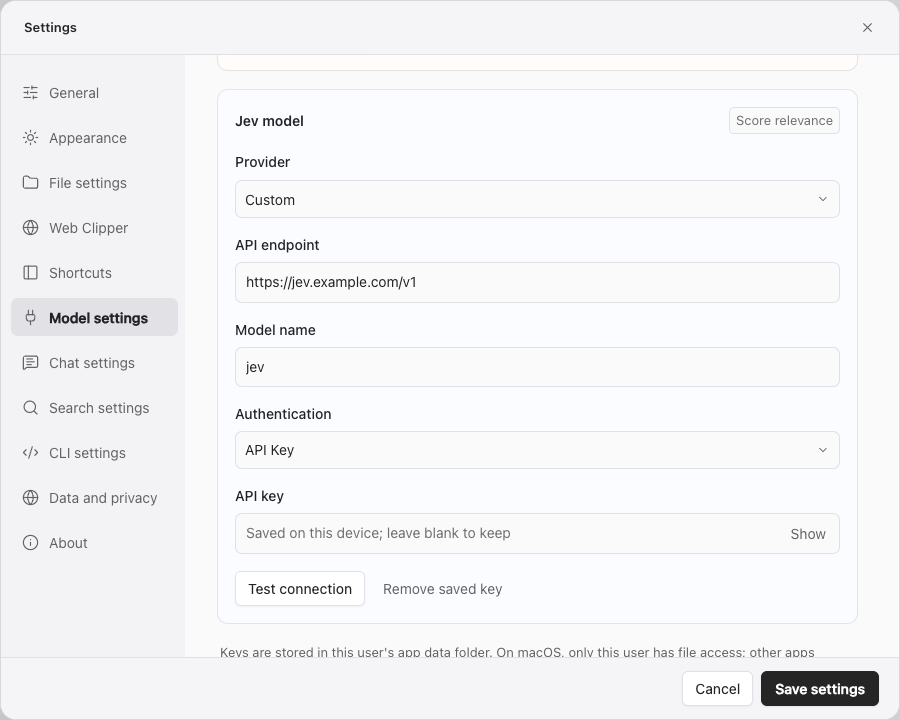
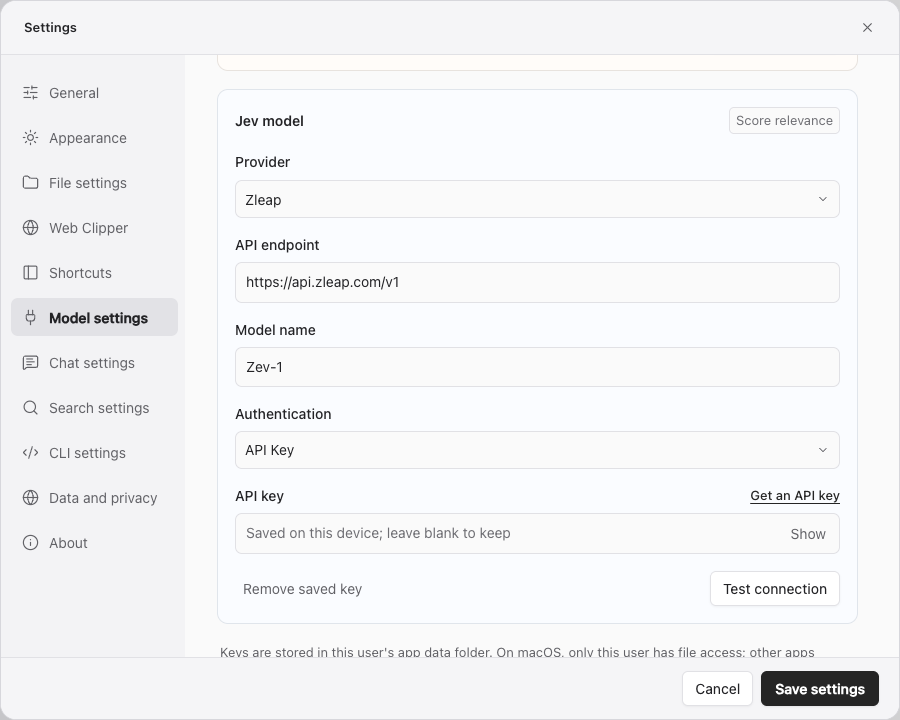
feat: default Jev retrieval to Zleap decision model

diff --git a/src/components/Settings.svelte b/src/components/Settings.svelte
@@ -40,7 +40,7 @@
  let settings={...structuredClone(value),runtime:structuredClone(value.runtime??{}),notes:{folder:(value.notes?.folder??'') as string|null,ask_location:value.notes?.ask_location??false},updates:structuredClone(value.updates??defaultUpdateSettings),convert_other_formats:value.convert_other_formats??false,search_summary_enabled:value.search_summary_enabled??true,search_summary_sources:value.search_summary_sources??10,language:value.language??'zh-CN',max_tool_calls:value.max_tool_calls??0,index_workers:value.index_workers??8,conversion_workers:value.conversion_workers??1,file_types:{markdown:true,text:true,code:false,config:false,...value.file_types},model_profiles:structuredClone(value.model_profiles??{}),mcp_servers:structuredClone(value.mcp_servers??[])},profileModel=value.answer.model,mcpDrafts:Record<string,string>={},page=initial==='jev'?'models':initial,answerKey='',jevKey='',mineruKey='',models=settings.answer.models.join('\n'),error='',status='',busy=false,showAnswer=false,showJev=false,mcpTesting='',mcpErrors:Record<string,string>={};
  let cliAccess:CliAccess|undefined=undefined,cliBusy=false;
  let cliConnection='',cliConnectionOpen=false,cliConnectionSuccessUntil=0;
- async function openAboutLink(event:MouseEvent,target:'project'|'company'|'302-api-keys'){event.preventDefault();error='';try{await api('open_about_link',{target})}catch(e){error=String(e)}}
+ async function openAboutLink(event:MouseEvent,target:'project'|'company'|'302-api-keys'|'zleap-console'){event.preventDefault();error='';try{await api('open_about_link',{target})}catch(e){error=String(e)}}
  let languageSaved=false;
  let providerChoice={answer:providerFor('answer',value.answer.url),jev:providerFor('jev',value.jev.url)};
  let autoFilledKey:ModelKind|null=null;
@@ -155,7 +155,7 @@
         <label class="field-label">{$t("模型名称")}<Input required bind:value={settings.jev.model} spellcheck="false"/></label>
         <label class="field-label auth-field">{$t("鉴权方式")}<Select label={$t("Jev 鉴权方式")} value={settings.jev.auth_mode??'bearer'} items={[{value:'bearer',label:$t('API Key')},{value:'none',label:$t('无需鉴权')}]} onValueChange={changeJevAuth}/></label>
         {#if settings.jev.auth_mode!=='none'}
-        <label class="field-label"><span class="key-field-label">{$t("API 密钥")}{#if providerChoice.jev==='302'}<a class="settings-key-link" href="https://302.ai/api-keys/list" target="_blank" rel="noreferrer" on:click={event=>openAboutLink(event,'302-api-keys')}>{$t("获取 API Key")}</a>{/if}</span><div class="key-field"><Input data-autofocus={initial==='jev'?true:undefined} type={showJev?'text':'password'} value={jevKey} oninput={event=>changeKey('jev',event.currentTarget.value)} placeholder={savedKeys.jev?$t("已保存在本机；留空保持原密钥"):$t("填写 API 密钥")} autocomplete="off" spellcheck="false"/><Button.Root type="button" onclick={()=>showJev=!showJev}>{showJev?$t("隐藏"):$t("显示")}</Button.Root></div></label>
+        <label class="field-label"><span class="key-field-label">{$t("API 密钥")}{#if providerChoice.jev==='zleap'}<a class="settings-key-link" href="https://platform.zleap.com/console" target="_blank" rel="noreferrer" on:click={event=>openAboutLink(event,'zleap-console')}>{$t("获取 API Key")}</a>{:else if providerChoice.jev==='302'}<a class="settings-key-link" href="https://302.ai/api-keys/list" target="_blank" rel="noreferrer" on:click={event=>openAboutLink(event,'302-api-keys')}>{$t("获取 API Key")}</a>{/if}</span><div class="key-field"><Input data-autofocus={initial==='jev'?true:undefined} type={showJev?'text':'password'} value={jevKey} oninput={event=>changeKey('jev',event.currentTarget.value)} placeholder={savedKeys.jev?$t("已保存在本机；留空保持原密钥"):$t("填写 API 密钥")} autocomplete="off" spellcheck="false"/><Button.Root type="button" onclick={()=>showJev=!showJev}>{showJev?$t("隐藏"):$t("显示")}</Button.Root></div></label>
         {/if}
        {/if}
        <div class="settings-card-actions">{#if settings[kind as ModelKind].has_key&&savedKeys[kind as ModelKind]}<Button.Root type="button" class="settings-text-button" onclick={()=>clearKey(kind as 'answer'|'jev')}>{$t("移除保存的密钥")}</Button.Root>{/if}<Button.Root type="button" class="outline settings-model-test" disabled={busy} onclick={()=>test(kind as 'answer'|'jev')}>{$t("测试连接")}</Button.Root></div>

diff --git a/bench/docs.ts b/bench/docs.ts
@@ -30,7 +30,7 @@ const now=Date.now();
 const conversation={id:'release-demo',title:question,updated:now,deleted:false,messages:[{created_at:now-60000,question,answer,evidence,model:'demo-model',scope:[],references:[],status:'complete',error:null,retrieval_question:question,context:{elapsed_ms:12400,limit:65536,reserved_output:2048,estimated_input:1250,omitted_sources:0,omitted_history:0,input_tokens:1250,output_tokens:240},tool_calls:[{id:'search',answer_offset:0,query:JSON.stringify({query:question}),source_count:3,elapsed_ms:320,server_name:'SAG',tool_name:'search',result:{documents:3}},{id:'read',answer_offset:0,query:JSON.stringify({path:docs[0].path}),source_count:1,elapsed_ms:24,server_name:'SAG',tool_name:'read',result:body}]}]};
 const partial=params.get('partial')==='1';
 const roots=[{path:root,name:text('项目资料','Project notes'),status:partial?'partial':'ready',count:docs.length,error:partial?text('未能索引 1 个文件\n文件无法读取','Could not index one file\nUnable to read the file'):null}];
-const settings={theme:'light',language:en?'en':'zh-CN',start_page:params.get('start')||'ask',editor_size:15,search_summary_enabled:true,search_summary_sources:10,answer:{model:'demo-model',models:['demo-model'],url:'https://api.example.com/v1',has_key:true},jev:{model:'jev',models:['jev'],url:'https://jev.example.com/v1',has_key:true,auth_mode:'bearer'},retrieval:{candidate_k:50,seed_k:10,expansion_term_limit:20,max_hops:1,top_k:10,chunk_chars:512},watch:true,show_hidden:false,excluded:[],timeout_secs:120,answer_context_tokens:65536,answer_output_tokens:2048,model_profiles:{'demo-model':{system_prompt:'',sag2_enabled:true,mcp_servers:['example']}},mcp_servers:[{id:'example',name:'Example Docs',transport:'http',url:'https://mcp.example.com',command:'',args:[],require_confirmation:true,has_credentials:false,tools:[{name:'read_document',description:'Read a documentation page'}]}]};
+const settings={theme:'light',language:en?'en':'zh-CN',start_page:params.get('start')||'ask',editor_size:15,search_summary_enabled:true,search_summary_sources:10,answer:{model:'demo-model',models:['demo-model'],url:'https://api.example.com/v1',has_key:true},jev:{model:'Zev-1',models:[],url:'https://api.zleap.com/v1',has_key:true,auth_mode:'bearer'},retrieval:{candidate_k:50,seed_k:10,expansion_term_limit:20,max_hops:1,top_k:10,chunk_chars:512},watch:true,show_hidden:false,excluded:[],timeout_secs:120,answer_context_tokens:65536,answer_output_tokens:2048,model_profiles:{'demo-model':{system_prompt:'',sag2_enabled:true,mcp_servers:['example']}},mcp_servers:[{id:'example',name:'Example Docs',transport:'http',url:'https://mcp.example.com',command:'',args:[],require_confirmation:true,has_credentials:false,tools:[{name:'read_document',description:'Read a documentation page'}]}]};
 const history=[{id:3,path:root,name:roots[0].name,started_at:now-3600000,finished_at:now-3590000,completed:3,total:4,status:'partial',error:text('未能读取部分文件，请检查文件权限。','Some files could not be read. Check file permissions.')},{id:2,path:root,name:roots[0].name,started_at:now-86400000,finished_at:now-86390000,completed:3,total:3,status:'ready',error:null}];
 const docling={installed:false,running:false,stage:'idle',message:'',downloaded:0,total:null,packages_done:null,packages_total:null,error:null,formats:[],builtin_formats:[['Documents',['pdf','docx','xlsx','epub']]],profiles:[]};
 const graphDocs=docs.map(({body,...d})=>({...d,file_type:'md'}));

diff --git a/tests/provider-settings.test.ts b/tests/provider-settings.test.ts
@@ -53,11 +53,11 @@ it('LLM 六个供应商自动填入地址，自定义地址与模型列表可以
  expect(onSave.mock.calls[0][0].answer).toMatchObject({url:'https://proxy.example/v1',model:'first',models:['first','second']});
 });
 it('Jev 预设供应商填入对应评分接口，并提供自定义选项',async()=>{
- expect(providers.jev.map(provider=>provider.label)).toEqual(['302.AI','OpenRouter','Typesafe','自定义']);
+ expect(providers.jev.map(provider=>provider.label)).toEqual(['Zleap','302.AI','OpenRouter','Typesafe','自定义']);
  await setup();
  for(const provider of providers.jev.filter(provider=>provider.value!=='custom')){await choose('jev',provider.value);expect(address('jev').value).toBe(provider.url);}
  trigger('jev').dispatchEvent(new KeyboardEvent('keydown',{key:'ArrowDown',bubbles:true}));
- await vi.waitFor(()=>expect(document.querySelectorAll('[role=option]')).toHaveLength(4));
+ await vi.waitFor(()=>expect(document.querySelectorAll('[role=option]')).toHaveLength(5));
  expect(document.querySelector('[role=option][data-value=custom]')).not.toBeNull();
 });
 it('Jev 自定义地址用于测试连接，保存后重新打开仍显示该地址',async()=>{
@@ -161,4 +161,17 @@ it('切回 API Key 后仍禁止复用原供应商的保存密钥',async()=>{
  card('jev').querySelector<HTMLButtonElement>('.settings-model-test')!.click();
  await vi.waitFor(()=>expect(document.body.textContent).toContain('切换供应商后，请填写对应的 API 密钥。'));
  expect(api.mock.calls.filter(([command])=>!['mineru_schema','runtime_schema'].includes(command))).toHaveLength(0);await save();expect(onSave).not.toHaveBeenCalled();
+});
+
+it('Zleap 预设显示控制台密钥入口，并与 302 问答密钥隔离',async()=>{
+ const settings=structuredClone(value);settings.jev={...settings.jev,url:'https://api.zleap.com/v1',model:'Zev-1',auth_mode:'bearer'};
+ const onSave=await setup(settings);
+ expect(trigger('jev').textContent).toContain('Zleap');
+ const link=card('jev').querySelector<HTMLAnchorElement>('.settings-key-link')!;
+ expect(link.href).toBe('https://platform.zleap.com/console');
+ link.click();await tick();expect(api).toHaveBeenCalledWith('open_about_link',{target:'zleap-console'});
+ await input(key('answer'),'test-answer-key');expect(key('jev').value).toBe('');
+ await input(key('jev'),'test-zleap-key');await save();
+ expect(onSave.mock.calls[0].slice(1,3)).toEqual(['test-answer-key','test-zleap-key']);
+ await choose('jev','official');expect(card('jev').querySelector('.settings-key-link')).toBeNull();
 });

diff --git a/src/lib/providers.ts b/src/lib/providers.ts
@@ -11,6 +11,7 @@ export const providers: Record<ModelKind, Provider[]> = {
   {value:'custom',label:'自定义',url:''},
  ],
  jev: [
+  {value:'zleap',label:'Zleap',url:'https://api.zleap.com/v1'},
   {value:'302',label:'302.AI',url:'https://api.302ai.cn/typesafeai/v1'},
   {value:'openrouter',label:'OpenRouter',url:'https://openrouter.ai/api/alpha/decisions'},
   {value:'official',label:'Typesafe',url:'https://api.typesafe.ai/v1'},

diff --git a/cli/tests/onboarding.rs b/cli/tests/onboarding.rs
@@ -78,11 +78,11 @@ fn first_run_guides_configuration_and_does_not_echo_the_key() {
     let mut command = Command::new(env!("CARGO_BIN_EXE_sag"));
     command.env("SAG_DATA_DIR", data.path());
     let mut terminal = Terminal::start(command);
-    terminal.wait_for("JEV 接口地址 [https://api.302ai.cn/typesafeai/v1]：");
-    assert!(terminal.output.contains("https://api.302ai.cn/typesafeai/v1"));
+    terminal.wait_for("JEV 接口地址 [https://api.zleap.com/v1]：");
+    assert!(terminal.output.contains("https://api.zleap.com/v1"));
     terminal.send("\n");
-    terminal.wait_for("模型名称 [jev-latest]：");
-    assert!(terminal.output.contains("jev-latest"));
+    terminal.wait_for("模型名称 [Zev-1]：");
+    assert!(terminal.output.contains("Zev-1"));
     terminal.send("\n");
     terminal.wait_for("API 密钥（输入隐藏）：");
     terminal.send_secret("first-run-private-key\n");
@@ -132,8 +132,8 @@ fn piped_installer_guides_setup_through_the_terminal() {
         .env("PATH", "/usr/bin:/bin").env("SAG_DATA_DIR", home.path().join("data"))
         .env("SAG_BINARY", env!("CARGO_BIN_EXE_sag"));
     let mut terminal = Terminal::start(command);
-    terminal.wait_for("JEV 接口地址 [https://api.302ai.cn/typesafeai/v1]："); terminal.send("\n");
-    terminal.wait_for("模型名称 [jev-latest]："); terminal.send("\n");
+    terminal.wait_for("JEV 接口地址 [https://api.zleap.com/v1]："); terminal.send("\n");
+    terminal.wait_for("模型名称 [Zev-1]："); terminal.send("\n");
     terminal.wait_for("API 密钥（输入隐藏）："); terminal.send_secret("installer-hidden-key\n");
     terminal.wait_for("配置已保存"); terminal.finish();
     assert!(!terminal.output.contains("installer-hidden-key"));
@@ -150,7 +150,7 @@ fn setup_continues_the_original_search_after_saving() {
         if current<2{
             assert_eq!(request["command"]["command"],"configure");
             if current==1{assert_eq!(request["command"]["key"],"search-private-key");}
-            serde_json::json!({"type":"configured","data":{"url":"https://api.302ai.cn/typesafeai/v1","model":"jev-latest","models":[],"has_key":current==1}})
+            serde_json::json!({"type":"configured","data":{"url":"https://api.zleap.com/v1","model":"Zev-1","models":[],"has_key":current==1}})
         }else{
             assert_eq!(request["command"]["query"],"where is session validation?");
             serde_json::json!({"type":"search","data":{"protocol_version":2,"scope":server_root,"results":[{"path":"./evidence.md","absolute_path":server_root.join("evidence.md"),"start_line":1,"end_line":1,"content":"session validation evidence"}],"truncated":false}})
@@ -159,8 +159,8 @@ fn setup_continues_the_original_search_after_saving() {
     let mut command = Command::new(env!("CARGO_BIN_EXE_sag"));
     command.args(["where is session validation?", "-c"]).current_dir(root).env("SAG_DATA_DIR", data.path());
     let mut terminal = Terminal::start(command);
-    terminal.wait_for("JEV 接口地址 [https://api.302ai.cn/typesafeai/v1]："); terminal.send("\n");
-    terminal.wait_for("模型名称 [jev-latest]："); terminal.send("\n");
+    terminal.wait_for("JEV 接口地址 [https://api.zleap.com/v1]："); terminal.send("\n");
+    terminal.wait_for("模型名称 [Zev-1]："); terminal.send("\n");
     terminal.wait_for("API 密钥（输入隐藏）："); terminal.send_secret("search-private-key\n");
     terminal.wait_for("session validation evidence"); terminal.finish();
     assert!(!terminal.output.contains("search-private-key"));
@@ -265,7 +265,7 @@ fn cancelling_setup_does_not_save_a_key() {
     let mut command = Command::new(env!("CARGO_BIN_EXE_sag"));
     command.env("SAG_DATA_DIR", data.path());
     let mut terminal = Terminal::start(command);
-    terminal.wait_for("JEV 接口地址 [https://api.302ai.cn/typesafeai/v1]：");
+    terminal.wait_for("JEV 接口地址 [https://api.zleap.com/v1]：");
     terminal.send("\u{3}");
     terminal.expect_exit(130);
     let shown = Command::new(env!("CARGO_BIN_EXE_sag")).arg("config")
@@ -281,8 +281,8 @@ fn cancelling_password_input_restores_terminal_echo() {
     let mut command = Command::new(env!("CARGO_BIN_EXE_sag"));
     command.env("SAG_DATA_DIR", data.path());
     let mut terminal = Terminal::start(command);
-    terminal.wait_for("JEV 接口地址 [https://api.302ai.cn/typesafeai/v1]："); terminal.send("\n");
-    terminal.wait_for("模型名称 [jev-latest]："); terminal.send("\n");
+    terminal.wait_for("JEV 接口地址 [https://api.zleap.com/v1]："); terminal.send("\n");
+    terminal.wait_for("模型名称 [Zev-1]："); terminal.send("\n");
     terminal.wait_for("API 密钥（输入隐藏）："); terminal.send_secret("\u{3}");
     terminal.expect_exit(130);
     let mut mode = std::mem::MaybeUninit::<libc::termios>::uninit();

diff --git a/core/src/store.rs b/core/src/store.rs
@@ -2780,15 +2780,16 @@ while [ ! -f "$(dirname "$0")/release" ]; do sleep 0.02; done
     }
 
     #[test]
-    fn new_settings_use_302_jev_and_keep_saved_provider() {
+    fn new_settings_use_zleap_jev_and_keep_saved_provider() {
         let dir = tempfile::tempdir().unwrap();
         let path = dir.path().join("settings.sqlite");
         let store = Store::open(&path).unwrap();
         let mut settings = store.settings().unwrap();
-        assert_eq!(settings.jev.url, "https://api.302ai.cn/typesafeai/v1");
-        assert_eq!(settings.jev.model, "jev-latest");
-        assert_eq!(crate::models::endpoint(&settings.jev, true), "https://api.302ai.cn/typesafeai/v1/systemone");
+        assert_eq!(settings.jev.url, "https://api.zleap.com/v1");
+        assert_eq!(settings.jev.model, "Zev-1");
+        assert_eq!(crate::models::endpoint(&settings.jev, true), "https://api.zleap.com/v1/systemone");
         assert!(!settings.jev.has_key);
+        assert_eq!(settings.jev.auth_mode, crate::types::ModelAuthMode::Bearer);
 
         settings.jev.url = "https://openrouter.ai/api/alpha/decisions".into();
         settings.jev.model = "typesafe/jev-1.13".into();

diff --git a/protocol/src/types.rs b/protocol/src/types.rs
@@ -312,8 +312,8 @@ impl Default for Settings {
             credential_error: None,
             answer: ModelConfig::default(),
             jev: ModelConfig {
-                url: "https://api.302ai.cn/typesafeai/v1".into(),
-                model: "jev-latest".into(),
+                url: "https://api.zleap.com/v1".into(),
+                model: "Zev-1".into(),
                 models: vec![],
                 has_key: false,
                 auth_mode: ModelAuthMode::Bearer,

diff --git a/src-tauri/src/lib.rs b/src-tauri/src/lib.rs
@@ -405,6 +405,7 @@ fn open_about_link(target: &str) -> CommandResult<()> {
         "project" => "https://github.com/Zleap-AI/SAG-Wiki",
         "company" => "https://zleap.com",
         "docling" => "https://docling.ai/",
+        "zleap-console" => "https://platform.zleap.com/console",
         "302-api-keys" => "https://302.ai/api-keys/list",
         _ => return Err("未知的关于页面链接".into()),
     };
